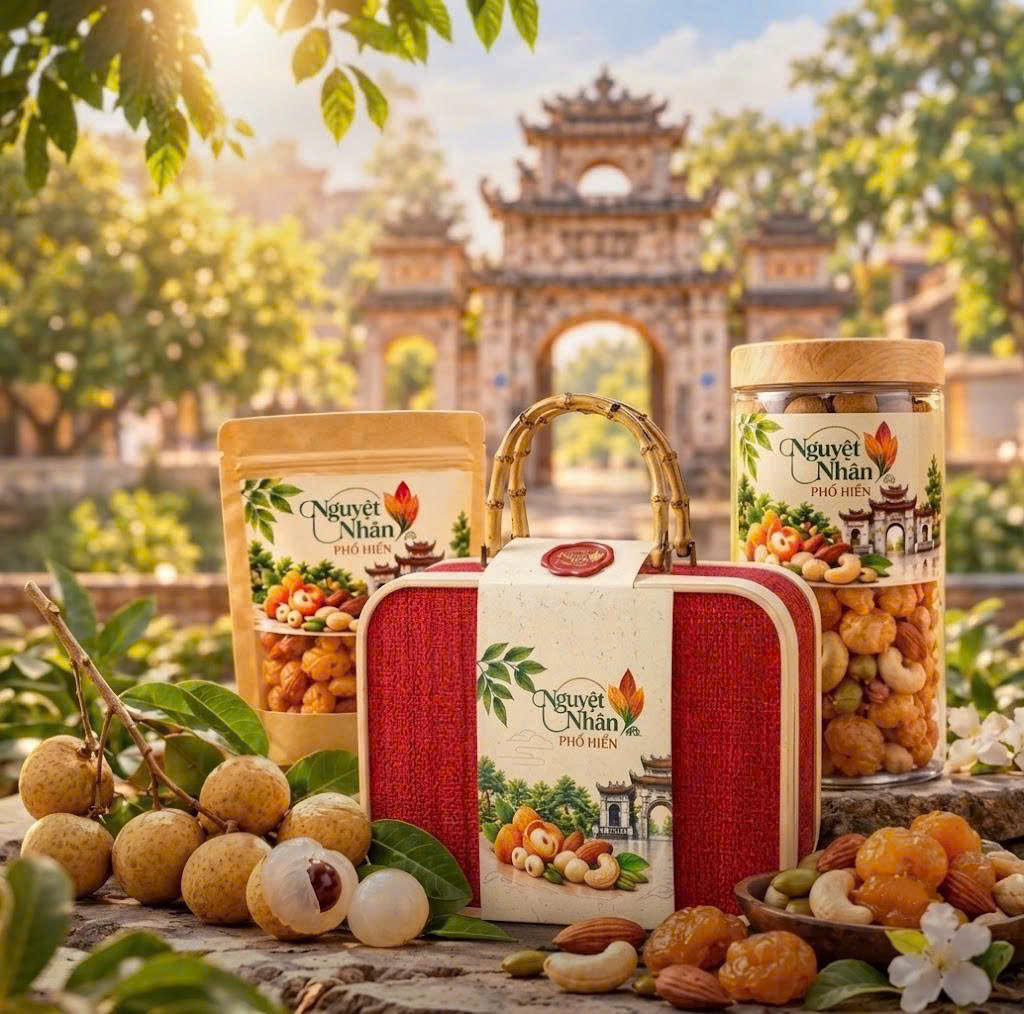
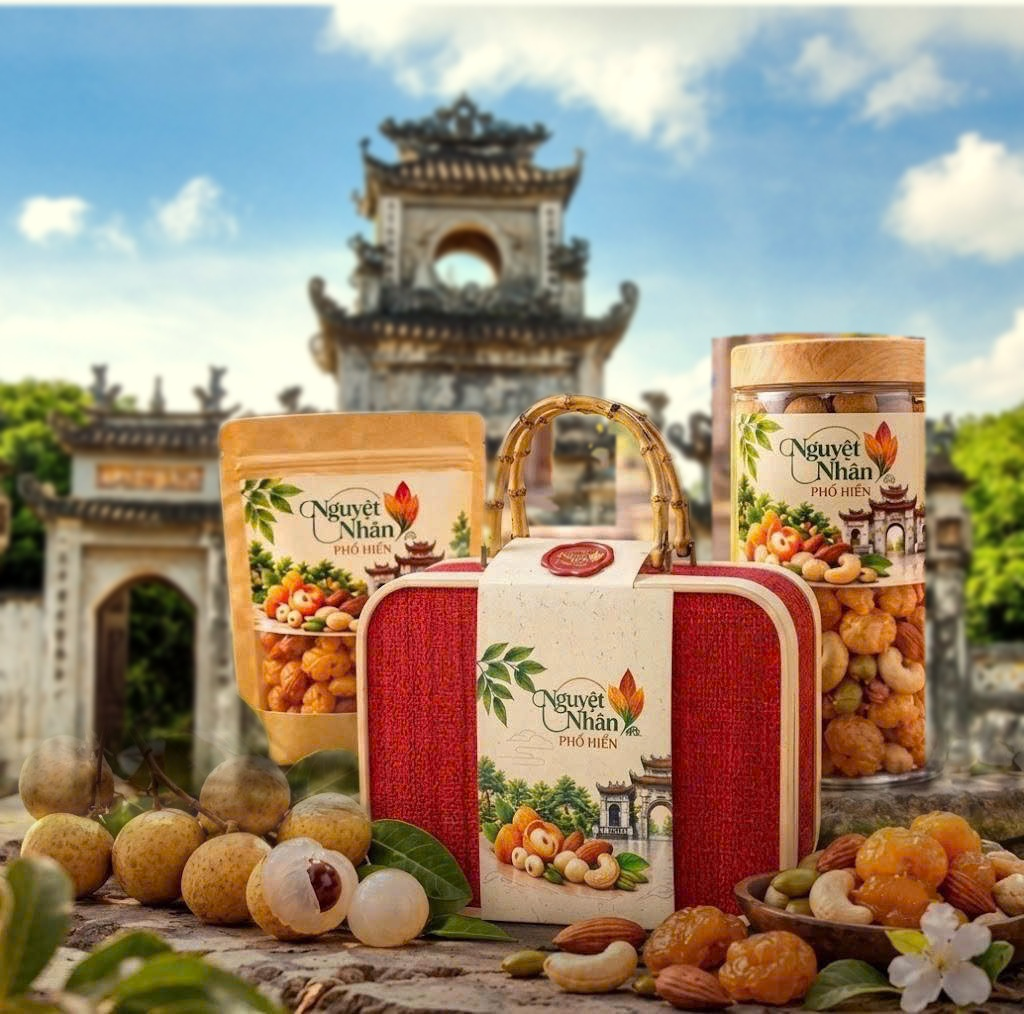
feat(hero): replace background of flagship product showcase with authentic historic Tam Quan gate of Chùa Chuông, Phố Hiến

diff --git a/frontend/src/components/ProductHeroShowcase.tsx b/frontend/src/components/ProductHeroShowcase.tsx
@@ -76,7 +76,7 @@ export function ProductHeroShowcase({
     setIsHovered(false);
   }, [mouseX, mouseY]);
 
-  const imageSource = bannerUrl || "/images/setqua3.jpg";
+  const imageSource = bannerUrl || "/images/combo3sp.jpg";
 
   return (
     <figure className="w-full max-w-lg lg:max-w-xl mx-auto select-none">
@@ -135,7 +135,7 @@ export function ProductHeroShowcase({
           >
             <FastImage
               src={imageSource}
-              fallbackSrc="/images/setqua3.jpg"
+              fallbackSrc="/images/combo3sp.jpg"
               alt="Bộ Sưu Tập Nguyệt Nhãn Phố Hiến"
               fill
               priority

diff --git a/frontend/src/views/landing/LandingPage.tsx b/frontend/src/views/landing/LandingPage.tsx
@@ -999,7 +999,7 @@ export default function LandingPage() {
                             (a, b) => (a.displayOrder ?? 0) - (b.displayOrder ?? 0)
                           )[0]?.imagePath
                         )
-                      : "/images/setqua3.jpg"
+                      : "/images/combo3sp.jpg"
                 }
                 onExploreClick={() => scrollToSection("san-pham")}
               />
